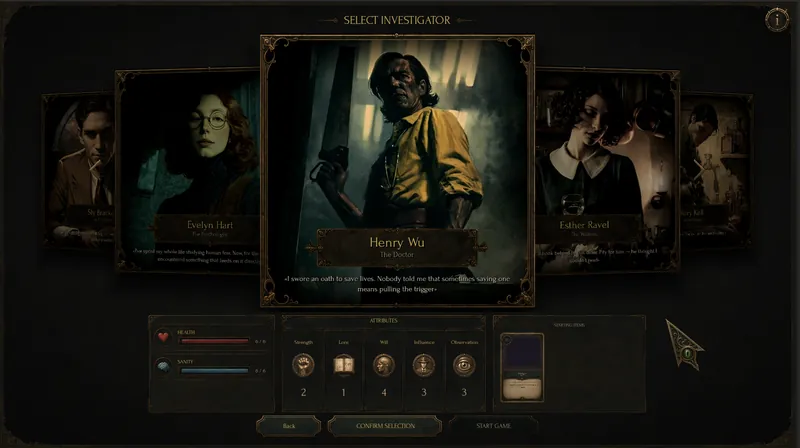
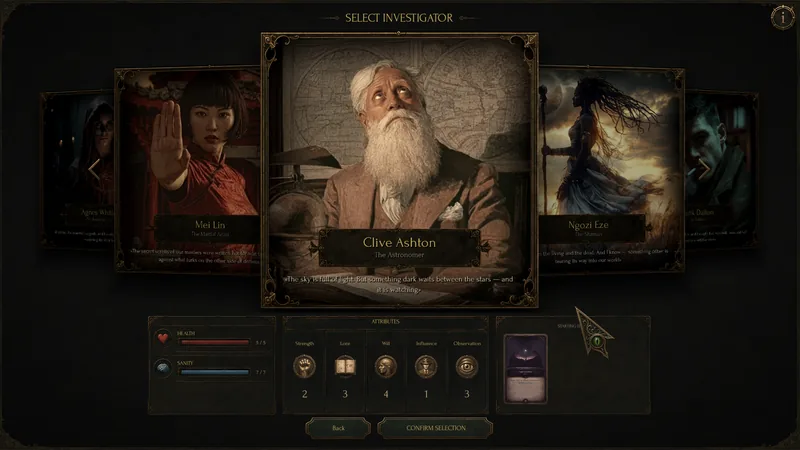
feat(landing): галерея — 10 новых экранов игры
Карта мира, выбор сыщика, карточка места, Миф, встреча-телеграмма, состояние,
заклинание, лавка, профессор Армитедж, меню паузы — с подписями RU/EN.
tools/build-gallery.py: из images/raw/*.png срезает рамку окна, режет в 16:9,
пишет webp 1600/800. Исходники (images/raw/) — в .gitignore; старая «Галерея
локаций» убрана.

diff --git a/index.html b/index.html
@@ -830,7 +830,7 @@
               sizes="(max-width: 720px) 100vw, 50vw"
               loading="lazy"
               width="1600"
-              height="896"
+              height="900"
               alt="World map"
             />
             <figcaption>
@@ -849,12 +849,11 @@
               sizes="(max-width: 720px) 100vw, 50vw"
               loading="lazy"
               width="1600"
-              height="897"
+              height="900"
               alt="Investigators"
             />
             <figcaption>
-              <b data-ru="Отряд сыщиков" data-en="The investigators"
-                >Отряд сыщиков</b
+              <b data-ru="Отряд сыщиков" data-en="The investigators">Отряд сыщиков</b
               ><span
                 data-ru="55 героев с навыками, характерами и своей историей"
                 data-en="55 heroes with skills, character and a story of their own"
@@ -864,21 +863,96 @@
           </figure>
           <figure>
             <img
-              src="images/gallery-1600.webp"
-              srcset="images/gallery-800.webp 800w, images/gallery-1600.webp 1600w"
+              src="images/location-1600.webp"
+              srcset="images/location-800.webp 800w, images/location-1600.webp 1600w"
               sizes="(max-width: 720px) 100vw, 50vw"
               loading="lazy"
               width="1600"
-              height="895"
-              alt="Location gallery"
+              height="900"
+              alt="Location card"
             />
             <figcaption>
-              <b data-ru="Галерея локаций" data-en="Location gallery"
-                >Галерея локаций</b
+              <b data-ru="Карточка места" data-en="Location card">Карточка места</b
               ><span
-                data-ru="Каждое место — атмосферная картина и мрачная легенда"
-                data-en="Every place — an atmospheric painting and a grim legend"
-                >Каждое место — атмосферная картина и мрачная легенда</span
+                data-ru="Картина места, улики, монстры и жетоны Древних — всё, что ждёт на клетке"
+                data-en="A painting of the place, its clues, monsters and Ancient One tokens — all that waits on the space"
+                >Картина места, улики, монстры и жетоны Древних — всё, что ждёт на клетке</span
+              >
+            </figcaption>
+          </figure>
+          <figure>
+            <img
+              src="images/mythos-1600.webp"
+              srcset="images/mythos-800.webp 800w, images/mythos-1600.webp 1600w"
+              sizes="(max-width: 720px) 100vw, 50vw"
+              loading="lazy"
+              width="1600"
+              height="900"
+              alt="Mythos phase"
+            />
+            <figcaption>
+              <b data-ru="Фаза Мифов" data-en="Mythos phase">Фаза Мифов</b
+              ><span
+                data-ru="Каждый раунд Древний делает ход: открываются врата, растёт Рок"
+                data-en="Every round the Ancient One moves: Gates open and Doom creeps on"
+                >Каждый раунд Древний делает ход: открываются врата, растёт Рок</span
+              >
+            </figcaption>
+          </figure>
+          <figure>
+            <img
+              src="images/encounter-1600.webp"
+              srcset="images/encounter-800.webp 800w, images/encounter-1600.webp 1600w"
+              sizes="(max-width: 720px) 100vw, 50vw"
+              loading="lazy"
+              width="1600"
+              height="900"
+              alt="Encounter"
+            />
+            <figcaption>
+              <b data-ru="Встречи" data-en="Encounters">Встречи</b
+              ><span
+                data-ru="Телеграммы с мест событий — истории, исход которых решают кости"
+                data-en="Telegrams from the scene — stories whose outcome the dice decide"
+                >Телеграммы с мест событий — истории, исход которых решают кости</span
+              >
+            </figcaption>
+          </figure>
+          <figure>
+            <img
+              src="images/condition-1600.webp"
+              srcset="images/condition-800.webp 800w, images/condition-1600.webp 1600w"
+              sizes="(max-width: 720px) 100vw, 50vw"
+              loading="lazy"
+              width="1600"
+              height="900"
+              alt="Condition check"
+            />
+            <figcaption>
+              <b data-ru="Состояния" data-en="Conditions">Состояния</b
+              ><span
+                data-ru="Безумие, раны и проклятия — и проверка, чтобы от них избавиться"
+                data-en="Madness, wounds and curses — and the test to shake them off"
+                >Безумие, раны и проклятия — и проверка, чтобы от них избавиться</span
+              >
+            </figcaption>
+          </figure>
+          <figure>
+            <img
+              src="images/spell-1600.webp"
+              srcset="images/spell-800.webp 800w, images/spell-1600.webp 1600w"
+              sizes="(max-width: 720px) 100vw, 50vw"
+              loading="lazy"
+              width="1600"
+              height="900"
+              alt="Casting a spell"
+            />
+            <figcaption>
+              <b data-ru="Заклинания" data-en="Spells">Заклинания</b
+              ><span
+                data-ru="Ритуалы, что меняют ход партии, — если хватит Знания"
+                data-en="Rituals that turn the tide — if your Lore holds"
+                >Ритуалы, что меняют ход партии, — если хватит Знания</span
               >
             </figcaption>
           </figure>
@@ -889,7 +963,7 @@
               sizes="(max-width: 720px) 100vw, 50vw"
               loading="lazy"
               width="1600"
-              height="895"
+              height="900"
               alt="Shop"
             />
             <figcaption>
@@ -898,6 +972,44 @@
                 data-ru="Оружие, реликвии и союзники — бросьте кости за находку"
                 data-en="Weapons, relics and allies — roll the dice for a find"
                 >Оружие, реликвии и союзники — бросьте кости за находку</span
+              >
+            </figcaption>
+          </figure>
+          <figure>
+            <img
+              src="images/guide-1600.webp"
+              srcset="images/guide-800.webp 800w, images/guide-1600.webp 1600w"
+              sizes="(max-width: 720px) 100vw, 50vw"
+              loading="lazy"
+              width="1600"
+              height="900"
+              alt="Professor Armitage"
+            />
+            <figcaption>
+              <b data-ru="Профессор Армитедж" data-en="Professor Armitage">Профессор Армитедж</b
+              ><span
+                data-ru="Проведёт новичка по первой партии шаг за шагом"
+                data-en="Walks a newcomer through the first game, step by step"
+                >Проведёт новичка по первой партии шаг за шагом</span
+              >
+            </figcaption>
+          </figure>
+          <figure>
+            <img
+              src="images/pause-1600.webp"
+              srcset="images/pause-800.webp 800w, images/pause-1600.webp 1600w"
+              sizes="(max-width: 720px) 100vw, 50vw"
+              loading="lazy"
+              width="1600"
+              height="900"
+              alt="Tasks and messages"
+            />
+            <figcaption>
+              <b data-ru="Задачи и послания" data-en="Tasks and messages">Задачи и послания</b
+              ><span
+                data-ru="Текущая Тайна, лента событий и время партии — под рукой"
+                data-en="The current Mystery, the event feed and play time — at hand"
+                >Текущая Тайна, лента событий и время партии — под рукой</span
               >
             </figcaption>
           </figure>

diff --git a/tools/build-gallery.py b/tools/build-gallery.py
@@ -1,0 +1,88 @@
+"""Скриншоты игры → картинки галереи лендинга.
+
+Исходники — images/raw/*.png (снимки окна игры). Срезаем серую рамку окна
+(у каждого снимка своя толщина), центр-кропим ровно в 16:9 и пишем webp в двух
+размерах: images/<name>-1600.webp и images/<name>-800.webp — их берёт srcset.
+
+    python tools/build-gallery.py
+"""
+
+from pathlib import Path
+
+from PIL import Image
+
+ROOT = Path(__file__).resolve().parent.parent
+RAW = ROOT / "images" / "raw"
+OUT = ROOT / "images"
+
+# исходник → имя на сайте (порядок здесь = порядок в галерее, для справки)
+SHOTS = {
+    "map.png": "map",
+    "investigator-picker.png": "investigators",
+    "map-location.png": "location",
+    "myth.png": "mythos",
+    "telegram.png": "encounter",
+    "condition-check.png": "condition",
+    "spell.png": "spell",
+    "shop.png": "shop",
+    "game-hint.png": "guide",
+    "pause-menu.png": "pause",
+}
+WIDTHS = (1600, 800)
+QUALITY = 82
+SAFETY = 3  # ещё пара пикселей сверх найденной рамки — на антиалиасинг края
+
+
+def _is_frame(px: tuple) -> bool:
+    """Пиксель серой рамки окна (≈41–43, почти без оттенка)."""
+    return all(36 <= c <= 48 for c in px[:3]) and max(px[:3]) - min(px[:3]) <= 3
+
+
+def _frame_depth(im: Image.Image, side: str) -> int:
+    w, h = im.size
+    n = 0
+    while n < 60:
+        if side == "t":
+            line = [im.getpixel((x, n)) for x in range(0, w, 5)]
+        elif side == "b":
+            line = [im.getpixel((x, h - 1 - n)) for x in range(0, w, 5)]
+        elif side == "l":
+            line = [im.getpixel((n, y)) for y in range(0, h, 5)]
+        else:
+            line = [im.getpixel((w - 1 - n, y)) for y in range(0, h, 5)]
+        if sum(1 for p in line if _is_frame(p)) / len(line) < 0.9:
+            break
+        n += 1
+    return n
+
+
+def _prepare(path: Path) -> Image.Image:
+    im = Image.open(path).convert("RGB")
+    t, b, l, r = (_frame_depth(im, s) + SAFETY for s in "tblr")
+    im = im.crop((l, t, im.width - r, im.height - b))
+    # центр-кроп в 16:9 — галерея и так режет object-fit: cover, пусть режем мы
+    w, h = im.size
+    if w * 9 > h * 16:
+        nw = h * 16 // 9
+        x = (w - nw) // 2
+        im = im.crop((x, 0, x + nw, h))
+    else:
+        nh = w * 9 // 16
+        y = (h - nh) // 2
+        im = im.crop((0, y, w, y + nh))
+    return im
+
+
+def main() -> None:
+    for src, name in SHOTS.items():
+        im = _prepare(RAW / src)
+        for width in WIDTHS:
+            out = OUT / f"{name}-{width}.webp"
+            im.resize((width, width * 9 // 16), Image.LANCZOS).save(
+                out, "WEBP", quality=QUALITY, method=6
+            )
+            print(f"{out.name}: {out.stat().st_size // 1024} KB")
+
+
+if __name__ == "__main__":
+    main()
